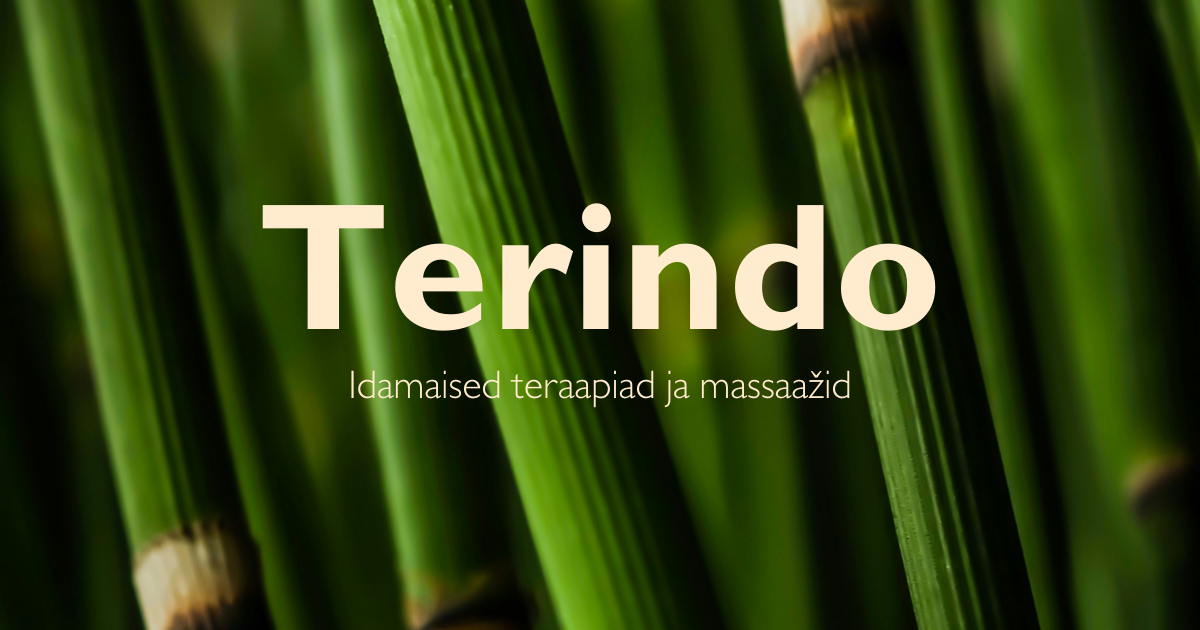
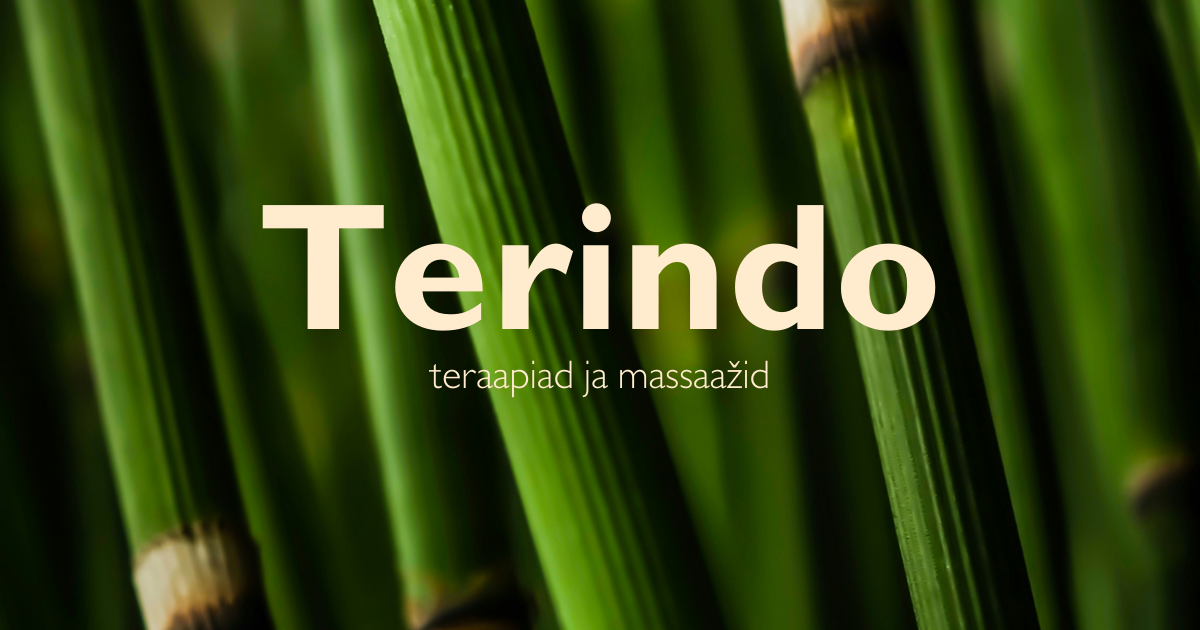
seo kraami veel

Changed region(s): [[0.2775, 0.573, 0.7092, 0.6333]]

diff --git a/src/views/Termas.vue b/src/views/Termas.vue
@@ -5,29 +5,103 @@
       <div class="content-box">
         <h2>Shindo massaaž</h2>
         <p>
-          Shindo massaaž on idamaine tervendusmeetod, mis põhineb Jaapani vanadel traditsioonidel. Seansi käigus 
-          mõjutatakse 12 energiameridiaani, et vabastada füüsilised ja emotsionaalsed blokeeringud ning toetada kogu keha heaolu.
-          Kasutatakse sõrmi, käsi ja jalgu. Mõnes kohas võib esineda valulikkust, kuid see aitab energia taas liikuma panna.
+          <strong>Shindo massaaž</strong> on idamaine tervendusmeetod, mis põhineb Jaapani vanadel traditsioonidel.
+          Shindo käsitlus inimesest on terviklik. Teraapia käigus mõjutatakse inimese keha läbivat 12 energiameridiaani, 
+          mis on seotud erinevate organitega. Igal elundil ja energiakanalil on täita konkreetne ülesanne. 
+          Massaažiga aidatakse liikuma meridiaanide energia, et siseorganeid mõjutades toetada kogu keha heaolu. 
+          Massaaživõtetes kasutatakse sõrmi, käsi ja jalgu. Massaaži kestel võib esineda valulikke momente, 
+          mil vabastatakse keha energeetilistest ja füüsilistest blokeeringutest.
         </p>
+
+        <p>
+          Tule teraapiasse mugavates liikumist võimaldavates riietes (pika varrukaga pluus, pikad püksid), 
+          paljajalu või varvassokkides.
+        </p>
+
+        <p><em>Massaaži toime</em></p>
+        <ul>
+          <li>parandab vereringet ja energiaringlust</li>
+          <li>vähendab pea-, selja-, liigese- ja lihasvalusid</li>
+          <li>aitab krooniliste valude ja lihaste tundetuse puhul</li>
+          <li>parandab liigeste liikuvust ja kehalist jäikust</li>
+          <li>tervendab külmetushaigustest ja palavikust</li>
+          <li>tugevdab immuunsüsteemi</li>
+          <li>korrastab ainevahetust</li>
+          <li>leevendab väsimust ja unetust, ärevust ja stressi</li>
+        </ul>
+
   
         <h2>Ki-Shiatsu teraapia</h2>
         <p>
-          Ki-Shiatsu on Jaapani üks tuntumaid teraapiaid, mis stimuleerib keha isetervenemist ja suurendab organismi elujõudu.
-          Teraapia aitab vabastada blokeerunud energiat ja taastada keha sisemist tasakaalu. Tehakse läbi riiete, ei kasutata õlisid ega massaažilauda,
-          mistõttu sobib ka eakatele ja lastele.
+          <strong>Ki-Shiatsu teraapia</strong> on Jaapani tuntumaid raviteraapiaid olles tõhusaks vahendiks probleemide algpõhjuse määramiseks ja mõjutamiseks. 
+          Teraapiaga stimuleeritakse keha iseeneslikku paranemisvõimet, suurendatakse organismi enda elujõudu. 
+          Viimane omakorda on võtmekes haiguste võitmiseks ja ärahoidmiseks. 
         </p>
-  
+
+        <p>
+          Teraapia käigus määratakse põhilendult energiatase e. töövõime (kogu organismi hetkeseis), 
+          tugevdatakse nõrku ning rahustatakse liigaktiivseid elundeid. Ki-shiatsu eesmärgiks on blokeerunud, 
+          hangunud energia taas liikuma panek, täites „energiavahe“. Taastatakse organismi võime ise ennast juhtida ja parandada.
+        </p>
+
+        <p>
+          Shiatsu-teraapia aitab ravida paljusid terviseprobleeme nagu stress, kurnatus, unetus, ainevahetushäired, 
+          selja-, kaela- ja peavalud, liigesteprobleemid jpm. Järjepidev shiatsu-teraapia mitte ainult ei vähenda haiguste sümptomeid, 
+          vaid omab ka profülaktilist toimet oma tervise eest hoolitsemisel.
+        </p>
+
+        <p>
+          See meetod sobib väga hästi kõigile, ka eakatele ja lastele, sest vajutused ja venitused on kerged ning äärmiselt lõõgastavad. 
+          Vastunäidustused <em>shiatsu</em> rakendamiseks, samuti üle doseerimise oht <em>proactivist</em> puuduvad.
+        </p>
+
+        <p>
+          Seanss on äärmiselt lõõgastav, mis on ka üheks eesmärgiks. Raviv mõju algab terapeudi esimesest puudutusest. 
+          Edasi töödeldakse pea-, kaela, selja ning lõpuks käte ja jalgade meridiaanidega. 
+          Shiatsu teraapiat tehakse läbi riiete, seetõttu peaks riietus olema kerge ja mugav. Massaažilauda ja õlisid ei kasutata.
+        </p>
+
+
         <h2>MER-teraapia</h2>
         <p>
-          MER (Myofascial Energetic Release) on sidekoemassaaž, mis ühendab aeglaseid venitusi ja liigeste vabastamise tehnikaid.
-          Aitab vabastada emotsioone ja pingeid, parandab rühti ning toetab keha närvisüsteemi ja taastumisvõimet.
-          Soovitatav kuurina – kord nädalas või üle nädala 4 korda.
+          <strong>MER-sidekoemassaaž</strong> on sidekoe tugeval ja aeglasel venitamisel põhinev massaaž, 
+          kombineerituna liigeste vabastamise tehnikatega. Sidekoemassaaž on suurepärane meetod lihaste ja kõõluste 
+          venitamisele, elastsemaks muutumisele ning seeläbi valudest vabanemisele. Ühtlasi rahuneb läbi aeglaste, sügavate ja 
+          mõnusate puudutuste keha närvisüsteem, taastuvad emotsionaalne tasakaal ja keha isetervenemisvõime ning paraneb rüht.
         </p>
+
+        <p>
+          MER massaaž vabastab kehasse kinni jäänud pinged ja allasurutud emotsioonid. Suurendab liigeste liikuvust, 
+          parandab vereringet ja energia voolamist kehas, tõstab une kvaliteeti. Massaaži tehakse laual.
+        </p>
+
+        <p>
+          Soovitatav on võtta MER massaaži kuurina, kord nädalas kuu aja jooksul või üle nädala 4 korda. 
+          Kuur aitab saada sügavamaid tulemusi ning saavutatut kinnistada. Siiski sõltub kordade arv individuaalselt inimesest.
+        </p>
+
   
         <h2>Lomi-Lomi Nui massaaž</h2>
         <p>
-          Lomi-Lomi Nui on Hawaii traditsiooniline massaaž rohke õliga. Kasutatakse käsi, küünarnukke ja käsivarsi, et tekitada 
-          voolavaid, ookeanilaineid matkivaid liigutusi. Massaaž ühendab lõdvestuse ja energiavoo tasakaalustamise ning loob harmoonia keha ja meele vahel.
+          <strong>Lomi-Lomi nui massaaž</strong> – “Armastuse vool kätes” – ava oma keha ja süda armastusele.
+        </p>
+
+        <p>
+          Lomi Lomi Nui on Hawaii traditsiooniline massaaž, mida tehakse rohke õliga. Käsi, küünarnukke ja küünarvarsi kasutatakse 
+          dünaamiliste, sügavate ja pikkade liigutuste tegemiseks, mis matkivad ookeanivee mõõna, tõusu ja vee voolamist.
+        </p>
+
+        <p>
+          Lomi Lomi massaaži võib kirjeldada kui hoolitsevat, maandavat ja energiatiseerivat kogemust.
+        </p>
+
+        <p>
+          Kui lasta minna kõigel, mis sind piirab, süvendad sellega oma lõdvestumise kogemust ja võimaldad uuel asemele tulla. 
+          See massaaž laeb keha taas energiaga ning loob tasakaalu teadliku ja alateadliku vahel.
+        </p>
+
+        <p>
+          Füüsilisel tasandil stimuleerib Lomi-Lomi Nui massaaž vereringet, seedimist ja luustikku.
         </p>
 
         <router-link to="/Hinnakiri" class="price-link">Vaata hinnakirja →</router-link>
@@ -38,10 +112,41 @@
 <style scoped>
 .content-box {
   position: relative;
+  padding-bottom: 4rem; /* ✅ Makes space for price-link */
+}
+
+
+.content-box h2 {
+  margin-top: 3rem;
+  margin-bottom: 1.5rem;
+}
+
+.content-box h2:first-of-type {
+  margin-top: 0;
 }
 
 .content-box p {
-  margin-bottom: 1.9rem; /* 🔥 Adds breathing space between paragraphs */
+  margin-bottom: 1.2rem;
+}
+
+.content-box ul {
+  margin-left: 1.5rem;
+  margin-bottom: 1.5rem;
+  list-style-type: disc;
+}
+
+.content-box li {
+  margin-bottom: 0.4rem;
+  padding-left: 0.2rem;
+}
+
+ul, li {
+  text-align: left;
+}
+
+.content-box em {
+  font-style: italic;
+  color: var(--color-highlight, blanchedalmond);
 }
 
 .price-link {
@@ -58,6 +163,21 @@
 
 .price-link:hover {
   color: rgb(47, 193, 103);
+}
+
+@media (max-width: 768px) {
+  .content-box p {
+    margin-bottom: 1.2rem;
+  }
+
+  .content-box h2 {
+    margin-top: 2rem;
+    margin-bottom: 1.2rem;
+  }
+
+  .price-link {
+    bottom: 1.5rem;
+  }
 }
 </style>
   

diff --git a/index.html b/index.html
@@ -14,11 +14,35 @@
     <link rel="manifest" href="/site.webmanifest">
 
     <!-- Open Graph Meta -->
-    <meta property="og:title" content="Terindo – Idamaised teraapiad ja massaažid" />
+    <meta property="og:title" content="Terindo – teraapiad ja massaažid" />
     <meta property="og:description" content="Shindo massaaž, rühmatunnid, Ki-Shiatsu, MER-teraapia ja Lomi-Lomi Nui massaaž Tallinnas, Sakus ja Keilas." />
-    <meta property="og:image" content="https://terindo.ee/terindo-og.jpg" />
+    <meta property="og:image" content="https://terindo.ee/terindo-og.png" />
     <meta property="og:type" content="website" />
     <meta property="og:url" content="https://terindo.ee" />
+
+    <script type="application/ld+json">
+        {
+          "@context": "https://schema.org",
+          "@type": "MassageTherapist",
+          "name": "Terindo",
+          "description": "Teraapiad ja massaažid Tallinnas, Keilas ja Sakus.",
+          "url": "https://terindo.ee",
+          "telephone": "+3725122945",
+          "email": "terje.loorits@gmail.com",
+          "address": {
+            "@type": "PostalAddress",
+            "addressLocality": "Tallinn",
+            "addressRegion": "Harjumaa",
+            "addressCountry": "EE"
+          },
+          "areaServed": [
+            { "@type": "Place", "name": "Tallinn" },
+            { "@type": "Place", "name": "Keila" },
+            { "@type": "Place", "name": "Saku" }
+          ],
+          "sameAs": []
+        }
+        </script>        
 </head>
 <body>
     <div id="app"></div>
